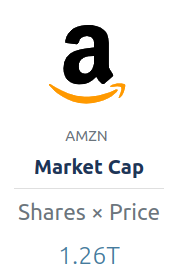
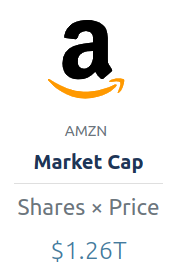
fix bug
The ratio returned from the backend has a field units, not unit.

diff --git a/src/common.js b/src/common.js
@@ -196,7 +196,9 @@ function renderRatioValue(ratio) {
     return <div>n/a</div>;
   }
 
-  return <div>{formatValue(ratio.value, ratio.unit)}</div>;
+  const unit = ratio.units && ratio.units.length > 0 ? ratio.units[0] : undefined;
+
+  return <div>{formatValue(ratio.value, unit)}</div>;
 }
 
 function formatValue(value, unit) {
